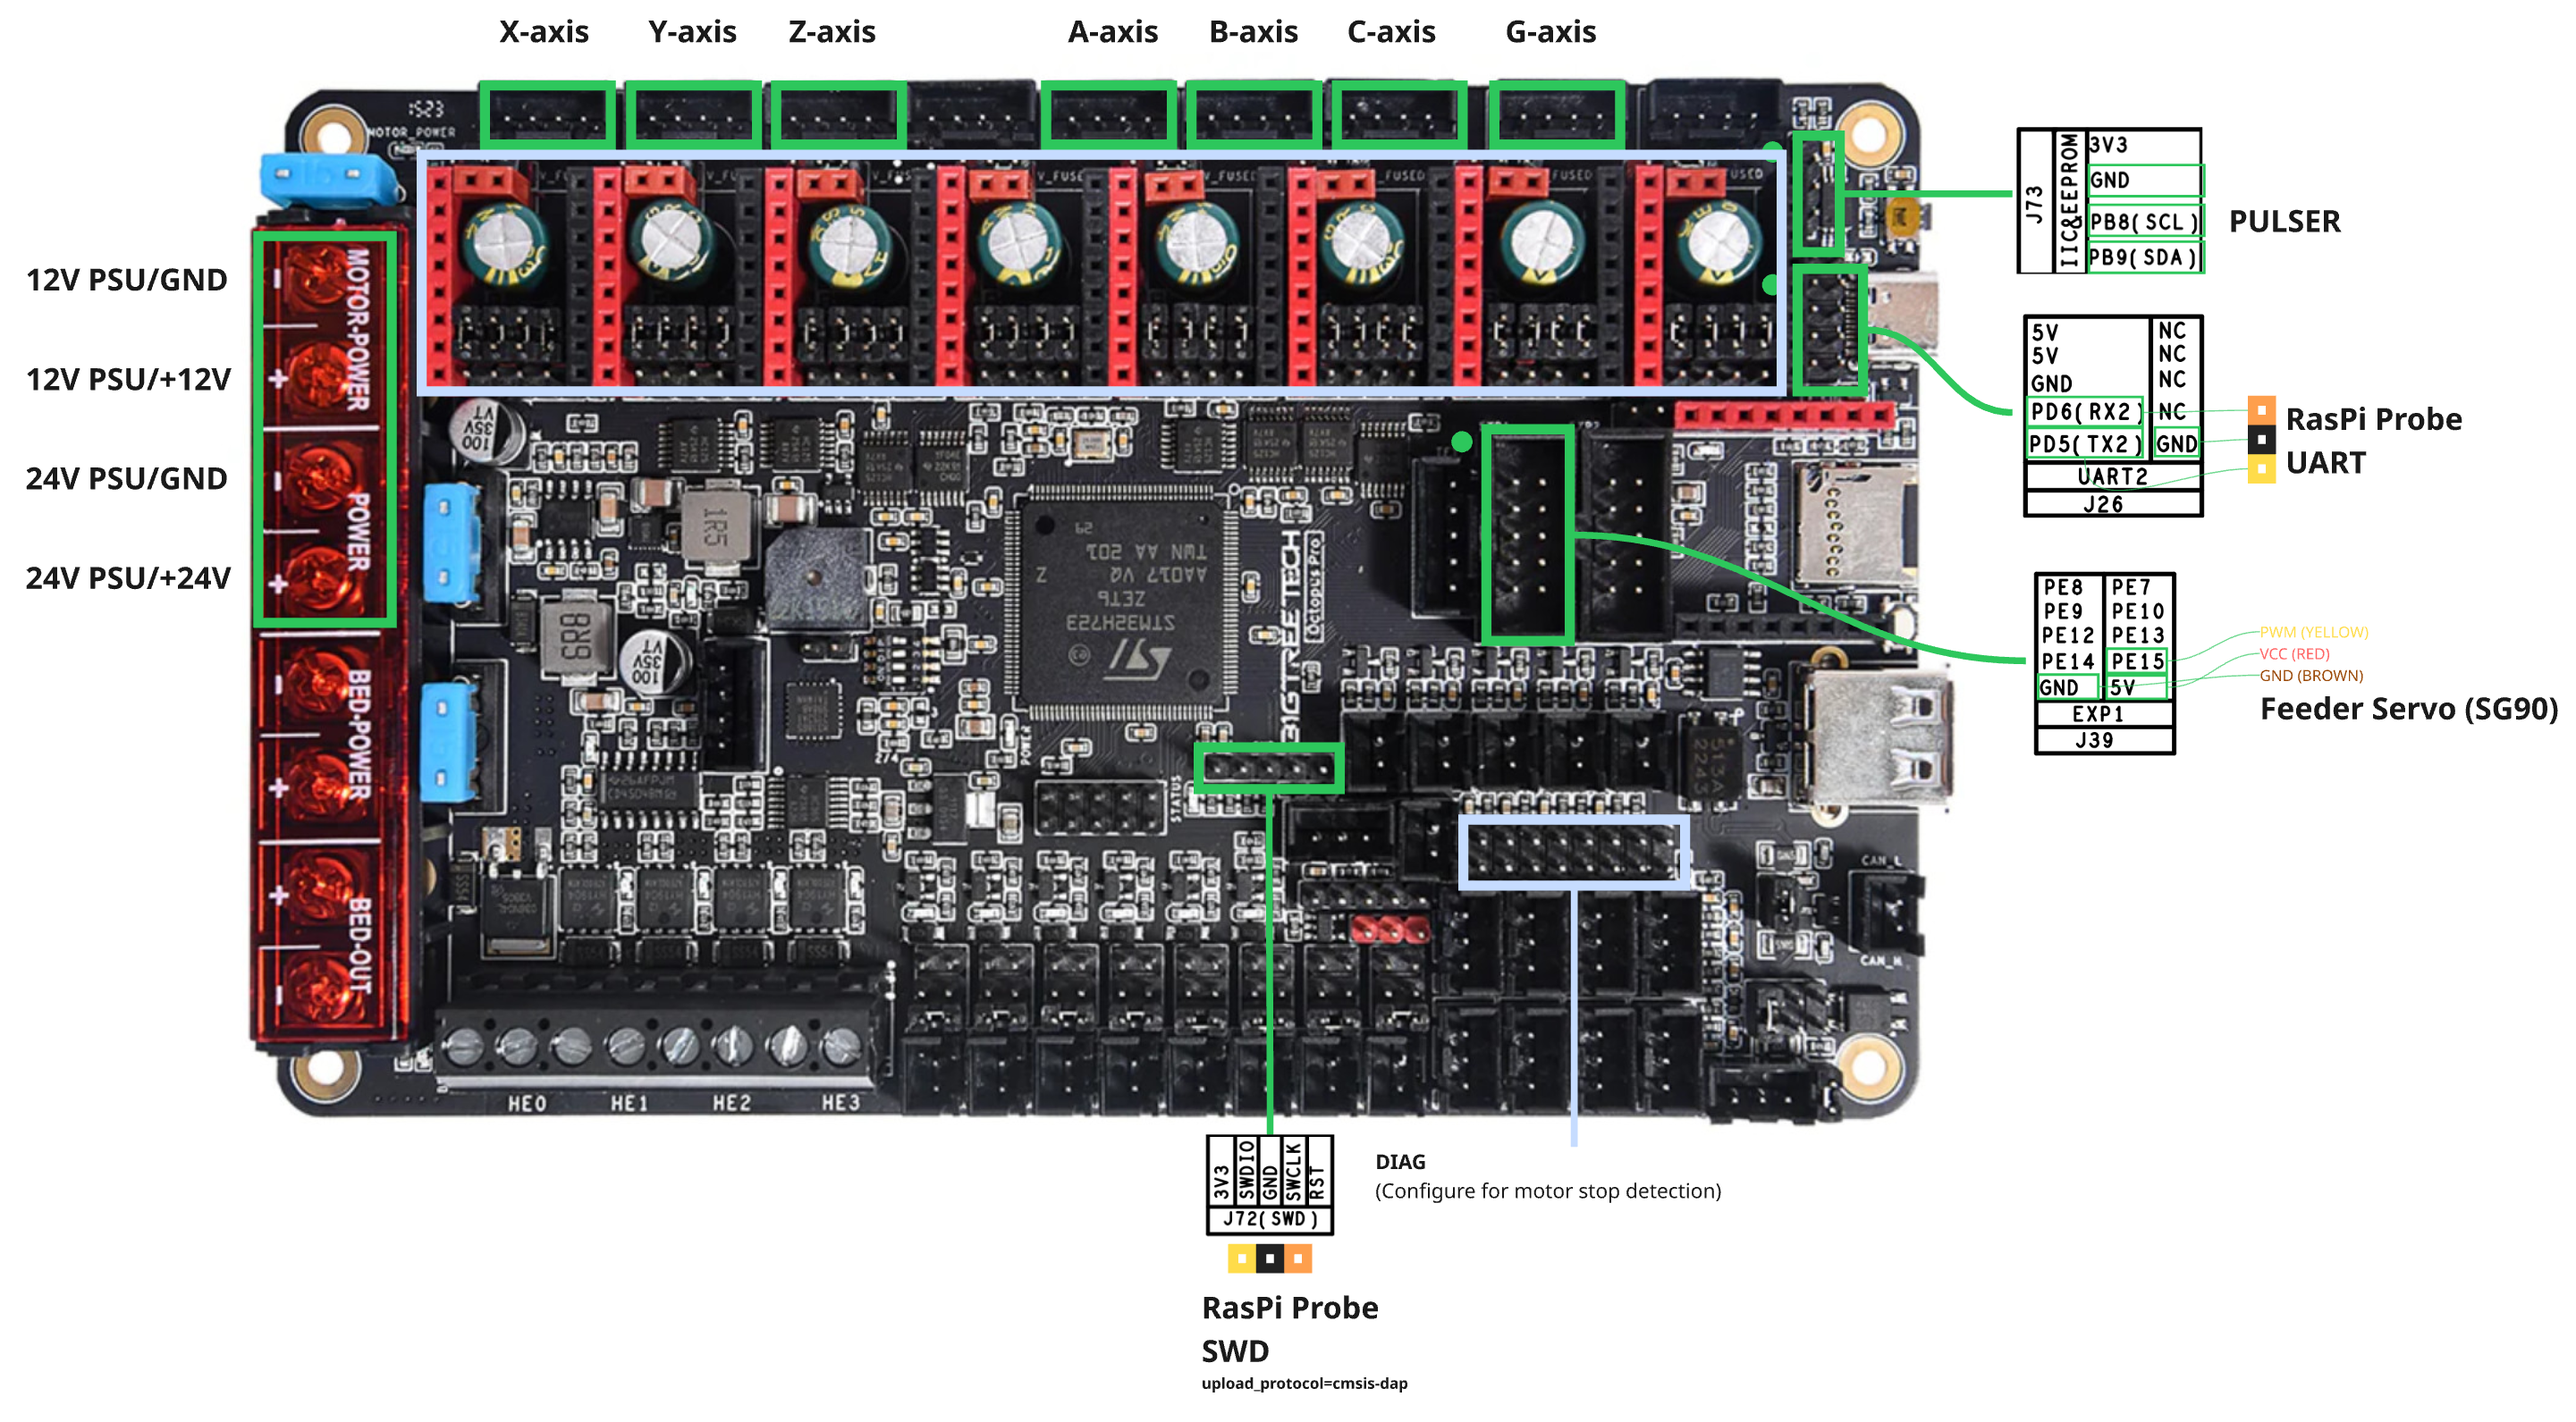
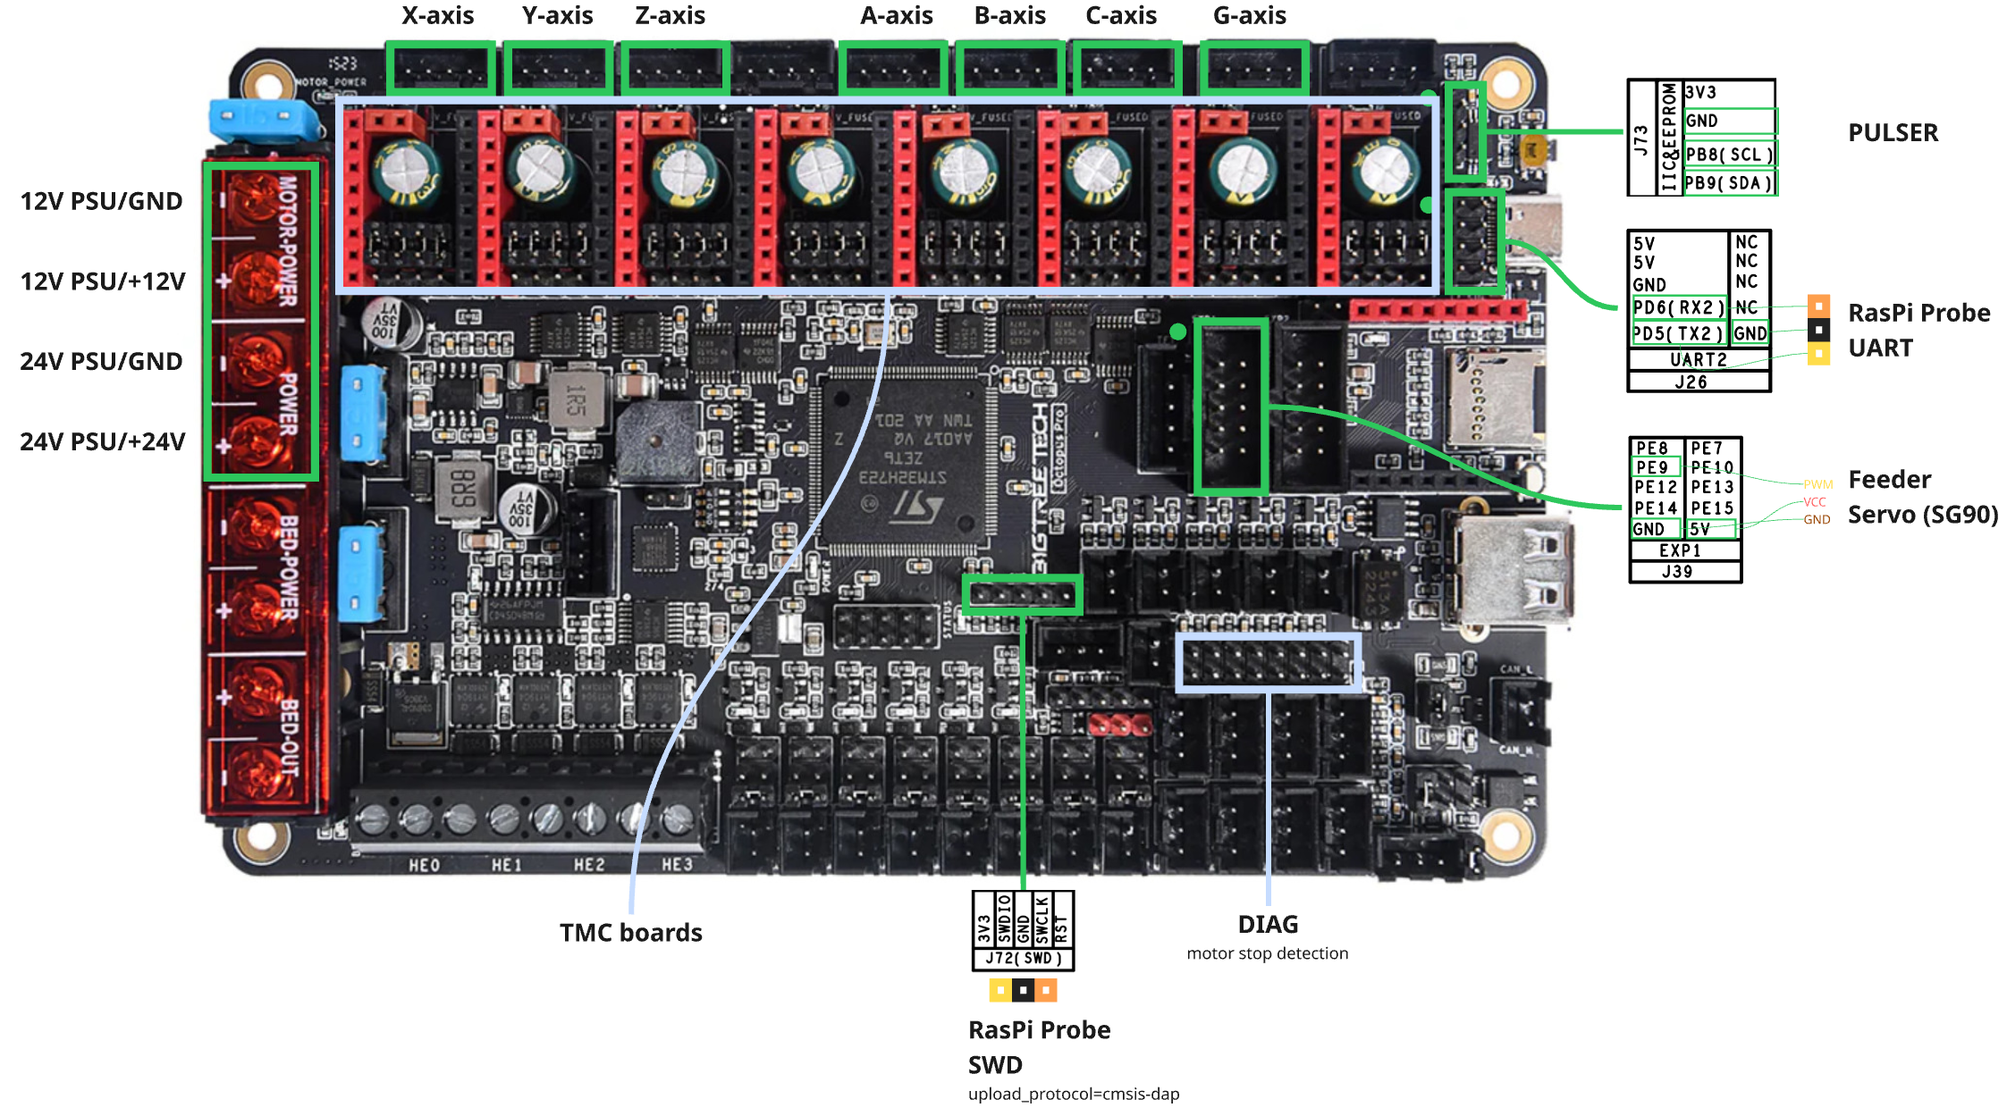
Add M60 & M61 (tool supply control)

diff --git a/app/src/settings.c b/app/src/settings.c
@@ -8,6 +8,7 @@
 #include "motion.h"
 #include "motor.h"
 #include "strutil.h"
+#include "toolsupply.h"
 #include "wirefeed.h"
 
 #include <drivers/tmc_driver.h>
@@ -77,6 +78,9 @@ static setting_entry_t settings[] = {
     {"m.6.microstep", 32.0f},
     {"m.6.thresh", 2.0f},
     {"m.6.unitsteps", 203.8f},
+    // Tool supply servo positions
+    {"ts.servo.closems", 1.3f},
+    {"ts.servo.openms", 1.6f},
 };
 
 #define SETTINGS_COUNT (sizeof(settings) / sizeof(settings[0]))
@@ -232,6 +236,30 @@ static bool apply_cs(char* mut_key, float value) {
   return true;
 }
 
+// Tool supply-specific setting application under "ts."
+static bool apply_ts(char* mut_key, float value) {
+  // Parse: servo.{open|close}
+  char* rest = split_at(mut_key, '.');
+  if (!rest) {
+    return false;
+  }
+
+  if (strcmp(mut_key, "servo") != 0) {
+    return false;  // Must be "servo"
+  }
+
+  // Apply setting
+  if (strcmp(rest, "openms") == 0) {
+    configure_tool_supply_servo_on(TOOL_SUPPLY_OPEN, value);
+    return true;
+  } else if (strcmp(rest, "closems") == 0) {
+    configure_tool_supply_servo_on(TOOL_SUPPLY_CLOSED, value);
+    return true;
+  }
+
+  return false;
+}
+
 // Hierarchical apply dispatcher
 static bool apply_setting(const char* key, float value) {
   // Make mutable copy for parsing
@@ -251,6 +279,8 @@ static bool apply_setting(const char* key, float value) {
     return apply_axis(rest, value);
   } else if (strcmp(mut_key, "cs") == 0) {
     return apply_cs(rest, value);
+  } else if (strcmp(mut_key, "ts") == 0) {
+    return apply_ts(rest, value);
   }
   return false;
 }

diff --git a/app/src/toolsupply.c b/app/src/toolsupply.c
@@ -1,0 +1,52 @@
+// SPDX-FileCopyrightText: 2025 夕月霞
+// SPDX-License-Identifier: AGPL-3.0-or-later
+#include "toolsupply.h"
+
+#include "comm.h"
+
+#include <zephyr/device.h>
+#include <zephyr/devicetree.h>
+#include <zephyr/drivers/pwm.h>
+#include <zephyr/kernel.h>
+
+static const struct device* pwm_dev = DEVICE_DT_GET(DT_NODELABEL(pwm1));
+static const uint32_t pwm_channel = 0; /* PE9 is TIM1_CH1, but 0-indexed */
+
+static float servo_on_ms_open = 0.0f;
+static float servo_on_ms_closed = 100.0f;
+
+static int set_servo(float on_ms) {
+  uint32_t period = PWM_MSEC(20);  // 50Hz
+  uint32_t on = PWM_USEC((int)(on_ms * 1000));
+  return pwm_set(pwm_dev, pwm_channel, period, on, 0);
+}
+
+void toolsupply_init() {
+  if (!device_is_ready(pwm_dev)) {
+    comm_print("toolsupply: init failed (PWM failed)");
+    return;
+  }
+  if (!set_servo(1.45)) {
+    comm_print("toolsupply: init failed (PWM failed)");
+    return;
+  }
+  comm_print("toolsupply: init ok");
+}
+
+void configure_tool_supply_servo_on(tool_supply_state_t state, float pos) {
+  switch (state) {
+    case TOOL_SUPPLY_OPEN:
+      servo_on_ms_open = pos;
+      break;
+    case TOOL_SUPPLY_CLOSED:
+      servo_on_ms_closed = pos;
+      break;
+  }
+}
+
+void set_tool_supply_state(tool_supply_state_t target) {
+  float on_ms =
+      (target == TOOL_SUPPLY_OPEN) ? servo_on_ms_open : servo_on_ms_closed;
+  set_servo(on_ms);
+  k_sleep(K_MSEC(500));  // wait for movement completion
+}

diff --git a/app/src/gcode.c b/app/src/gcode.c
@@ -8,6 +8,7 @@
 #include "motion.h"
 #include "pulser.h"
 #include "system.h"
+#include "toolsupply.h"
 #include "wirefeed.h"
 
 #include <stdlib.h>
@@ -353,6 +354,14 @@ static void exec_mcode_cmd(const gcode_parsed_t* parsed) {
   } else if (parsed->code == 11 && parsed->sub_code == -1) {
     // M11 - Stop wire feeding
     wirefeed_stop();
+  } else if (parsed->code == 60 && parsed->sub_code == -1) {
+    // M60 - Open tool supply
+    set_tool_supply_state(TOOL_SUPPLY_OPEN);
+    comm_print("tool supply opened");
+  } else if (parsed->code == 61 && parsed->sub_code == -1) {
+    // M61 - Close tool supply
+    set_tool_supply_state(TOOL_SUPPLY_CLOSED);
+    comm_print("tool supply closed");
   } else {
     comm_print_err("Unsupported M-code: M%d", parsed->code);
   }
@@ -431,7 +440,8 @@ void exec_test_pulser(int dur_sec) {
       uint8_t short_rate = pulser_get_short_rate();
       uint8_t pulse_rate = pulser_get_pulse_rate();
       uint8_t open_rate = pulser_get_open_rate();
-      comm_print("pulser short=%.2f pulse=%.2f open=%.2f", short_rate / 255.0, pulse_rate / 255.0, open_rate / 255.0);
+      comm_print("pulser short=%.2f pulse=%.2f open=%.2f", short_rate / 255.0,
+                 pulse_rate / 255.0, open_rate / 255.0);
     }
 
     k_sleep(K_MSEC(100));

diff --git a/app/src/toolsupply.h b/app/src/toolsupply.h
@@ -1,0 +1,23 @@
+// SPDX-FileCopyrightText: 2025 夕月霞
+// SPDX-License-Identifier: AGPL-3.0-or-later
+/**
+ * (Singleton) Tool supply control
+ */
+#pragma once
+
+typedef enum {
+    TOOL_SUPPLY_OPEN,
+    TOOL_SUPPLY_CLOSED
+} tool_supply_state_t;
+
+/** Initialize tool supply PWM servo. */
+void toolsupply_init();
+
+/** Configure servo positions for tool supply states.
+ * @param state Tool supply state to configure
+ * @param on_ms on-cycle time in msec
+ */
+void configure_tool_supply_servo_on(tool_supply_state_t state, float on_ms);
+
+/** Set tool supply to target state (blocking). */
+void set_tool_supply_state(tool_supply_state_t target);

diff --git a/app/src/main.c b/app/src/main.c
@@ -13,6 +13,7 @@
 #include "settings.h"
 #include "strutil.h"
 #include "system.h"
+#include "toolsupply.h"
 #include "wirefeed.h"
 
 #include <stdlib.h>
@@ -234,6 +235,7 @@ int main() {
   // init hardware
   motor_init();
   pulser_init();
+  toolsupply_init();
 
   // init modules
   motion_init();

diff --git a/app/src/pulser.h b/app/src/pulser.h
@@ -42,7 +42,6 @@ uint8_t pulser_get_short_rate();
  */
 uint8_t pulser_get_pulse_rate();
 
-
 /**
  * Get latest open rate from EDM polling
  * @return open rate (0-255)

diff --git a/spec/gcode.md b/spec/gcode.md
@@ -158,6 +158,14 @@ M4              ; Use all defaults
 M4 P1000 Q0.8   ; 1000µs pulses, 0.8A current, default duty
 ```
 
+### (future) M6: Tool change
+Eject current tool and get new tool.
+Position will be moved and coordinate system can change.
+
+Not implemented yet.
+
+Internally, position movement + M60 + M61.
+
 ### (future) M8: Start pump
 ### (future) M9: Stop pump
 
@@ -178,3 +186,9 @@ Examples:
 ```
 M11  ; Stop wire feed
 ```
+
+### M60: Open tool supply
+Open the tool supply for the head to pick up.
+
+### M61: Close tool supply
+Cloes the tool supply for normal operation.

diff --git a/spec/settings.md b/spec/settings.md
@@ -43,3 +43,7 @@ but currently unavailable.
   * grinder's origin offset in machine coordinates
   * auto-adjusted by calibration motion (G-code TBD)
   * offset must be at most a few mm; otherwise calibration will fail
+* ts.servo.{openms, closems}
+  * Configure tool supply's servo position (on-cycle time) in msec (float).
+  	* For SG90, valid value is 0.5~2.4.
+  * Period is fixed 20ms (50Hz).
